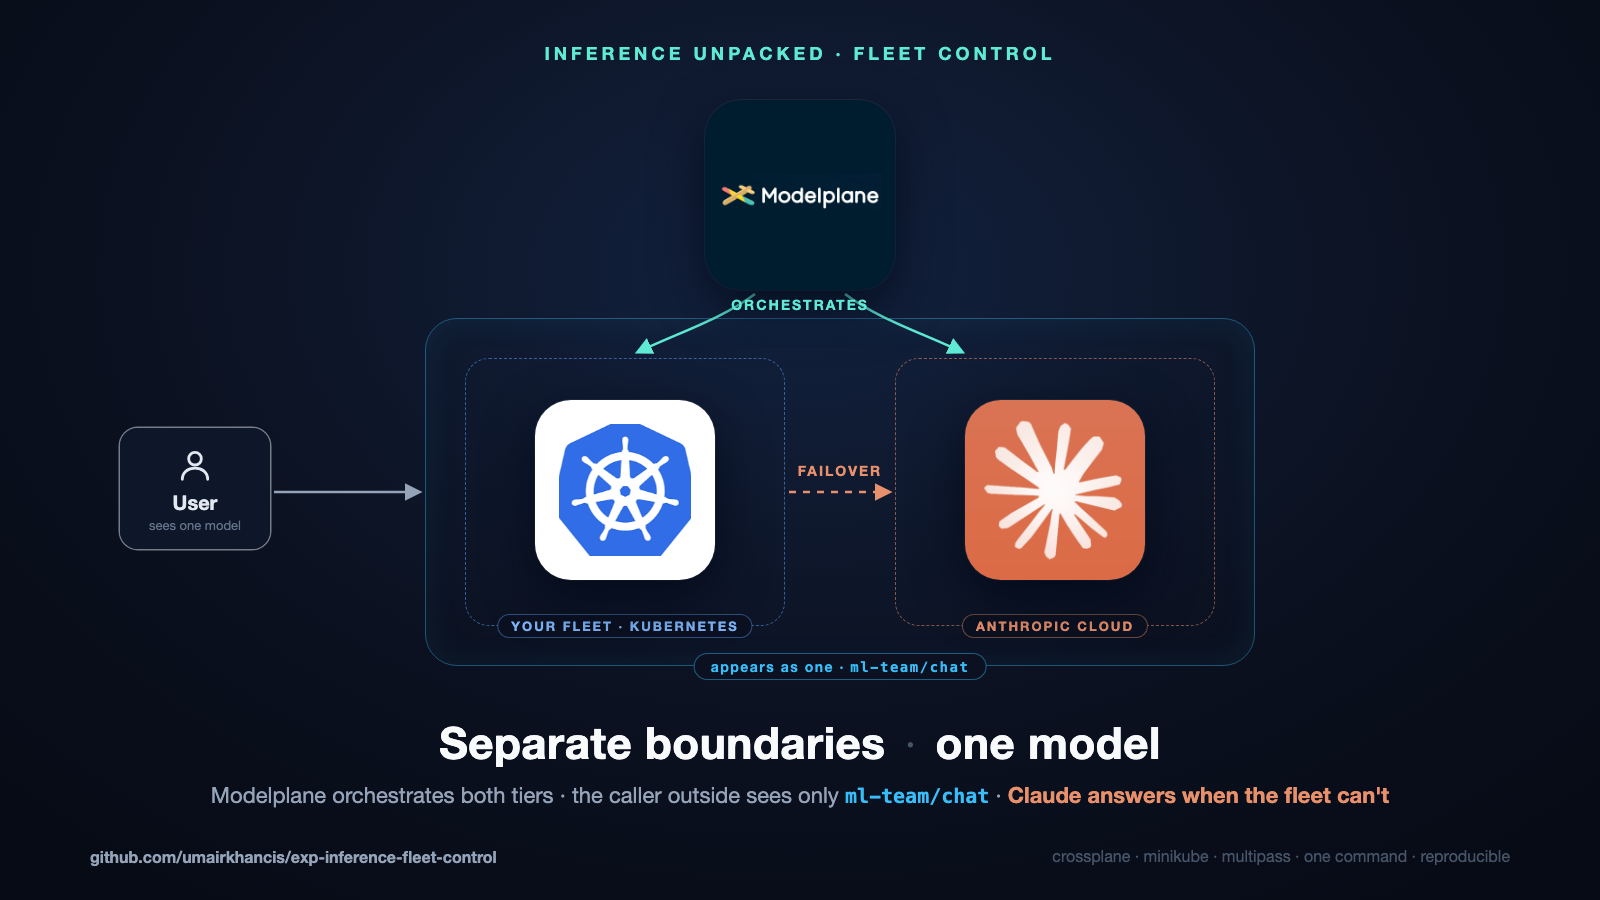
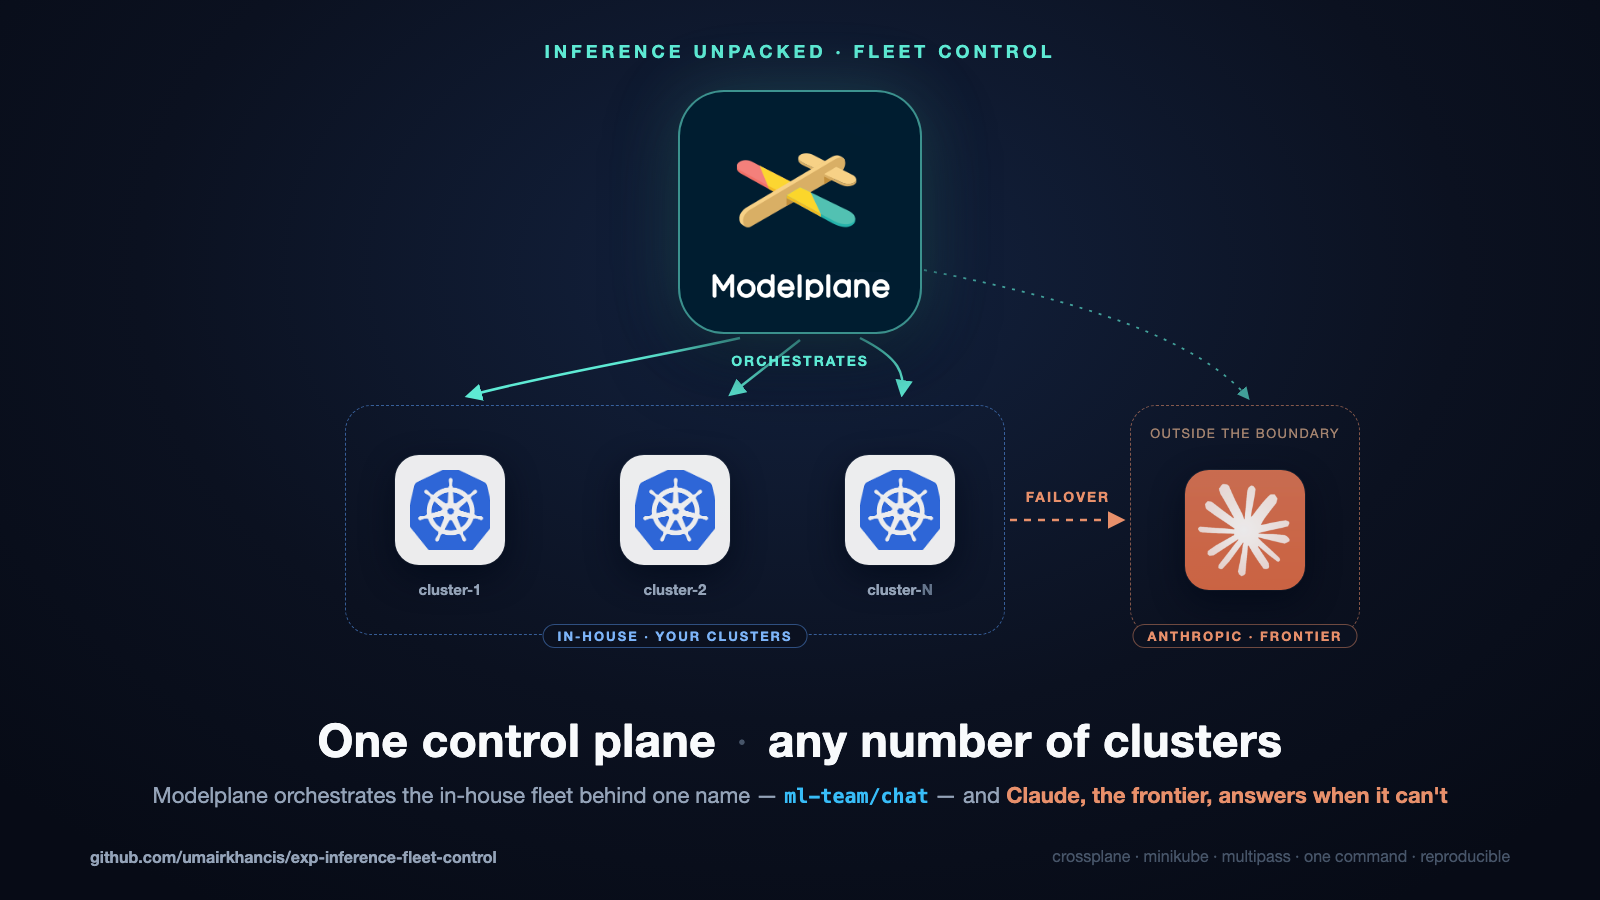
Add architecture deepdive section and refresh hero diagram

diff --git a/docs/assets/modelplane-x-k8s.html b/docs/assets/modelplane-x-k8s.html
@@ -11,85 +11,86 @@
     color: #e2e8f0; position: relative;
   }
   .kicker {
-    position: absolute; top: 42px; left: 0; right: 0; text-align: center;
+    position: absolute; top: 40px; left: 0; right: 0; text-align: center;
     font-size: 18px; font-weight: 600; letter-spacing: 4px; text-transform: uppercase;
     color: #5eead4;
   }
 
-  /* icon tiles */
-  .tile {
-    position: absolute; border-radius: 36px; overflow: hidden;
-    display: flex; align-items: center; justify-content: center;
-    box-shadow: 0 18px 50px rgba(2, 8, 23, .75), 0 0 0 1px rgba(148,163,184,.12);
+  /* ------- the hero: Modelplane, emphasized ------- */
+  .tile.mp {
+    position: absolute; left: 680px; top: 92px; width: 240px; height: 240px;
+    border-radius: 44px; background: #001d30;
+    display: flex; flex-direction: column; align-items: center; justify-content: center;
+    gap: 12px;
+    box-shadow: 0 0 0 2px rgba(94,234,212,.55), 0 0 70px rgba(94,234,212,.22),
+                0 24px 70px rgba(2,8,23,.8);
   }
-  .tile.mp { left: 705px; top: 100px; width: 190px; height: 190px; background: #001d30; }
-  .tile.mp img { width: 164px; object-fit: contain; }
-  .tile.k8s { left: 535px; top: 400px; width: 180px; height: 180px; background: #ffffff; }
-  .k8s-crop {
-    width: 132px; height: 132px; overflow: hidden;
-    display: flex; align-items: center; justify-content: center;
-  }
-  .k8s-crop img { width: 156px; height: 156px; object-fit: cover; object-position: 46% 50%; }
-  .tile.claude { left: 965px; top: 400px; width: 180px; height: 180px; }
-  .tile.claude img { width: 180px; height: 180px; object-fit: cover; }
+  /* the logo is one horizontal lockup (icon + wordmark); crop it twice */
+  .mp-icon { position: relative; width: 140px; height: 136px; overflow: hidden; }
+  .mp-icon img { position: absolute; width: 600px; left: -8px; top: -12px; }
+  .mp-word { position: relative; width: 180px; height: 28px; overflow: hidden; }
+  .mp-word img { position: absolute; width: 250px; left: -65px; top: -19px; }
 
-  /* separate boundaries + the one outline the caller sees */
-  .boundary { position: absolute; border: 1.5px dashed rgba(148,163,184,.5); border-radius: 24px; }
+  /* ------- supporting tiles, de-emphasized ------- */
+  .tile.small {
+    position: absolute; border-radius: 24px; overflow: hidden; opacity: .92;
+    display: flex; align-items: center; justify-content: center;
+    box-shadow: 0 12px 34px rgba(2,8,23,.7), 0 0 0 1px rgba(148,163,184,.12);
+  }
+  .k8s-crop { width: 80px; height: 80px; overflow: hidden; display: flex; align-items: center; justify-content: center; }
+  .k8s-crop img { width: 95px; height: 95px; object-fit: cover; object-position: 46% 50%; }
+  .tile.k8s { width: 110px; height: 110px; background: #ffffff; }
+  .k1 { left: 395px; top: 455px; }
+  .k2 { left: 620px; top: 455px; }
+  .k3 { left: 845px; top: 455px; }
+  .tile.claude { width: 120px; height: 120px; left: 1185px; top: 470px; }
+  .tile.claude img { width: 120px; height: 120px; object-fit: cover; }
+
+  .cname {
+    position: absolute; width: 110px; text-align: center;
+    font-size: 15px; font-weight: 600; color: #94a3b8;
+  }
+  .cn1 { left: 395px; top: 580px; } .cn2 { left: 620px; top: 580px; } .cn3 { left: 845px; top: 580px; }
+  .cn3 i { font-style: normal; color: #64748b; }
+
+  /* ------- boundaries ------- */
+  .boundary { position: absolute; border: 1.5px dashed rgba(148,163,184,.5); border-radius: 26px; }
   .boundary > .tag {
-    position: absolute; bottom: -13px; left: 50%; transform: translateX(-50%); padding: 3px 13px;
-    font-size: 13px; font-weight: 700; letter-spacing: 2px; text-transform: uppercase;
-    color: #94a3b8; background: #0b1120; border-radius: 999px;
-    border: 1px solid rgba(148,163,184,.35); white-space: nowrap;
+    position: absolute; bottom: -14px; left: 50%; transform: translateX(-50%);
+    padding: 3px 14px; font-size: 13px; font-weight: 700; letter-spacing: 2px;
+    text-transform: uppercase; background: #0b1120; border-radius: 999px;
+    white-space: nowrap;
   }
-  .fleet   { left: 465px; top: 358px; width: 320px; height: 268px; border-color: rgba(90,155,246,.55); }
-  .fleet > .tag { color: #7db4f8; border-color: rgba(90,155,246,.45); }
-  .anthropic { left: 895px; top: 358px; width: 320px; height: 268px; border-color: rgba(232,144,107,.55); }
-  .anthropic > .tag { color: #e8906b; border-color: rgba(232,144,107,.45); }
+  .inhouse { left: 345px; top: 405px; width: 660px; height: 230px; border-color: rgba(90,155,246,.55); }
+  .inhouse > .tag { color: #7db4f8; border: 1px solid rgba(90,155,246,.45); }
+  .frontier { left: 1130px; top: 405px; width: 230px; height: 230px; border-color: rgba(232,144,107,.55); }
+  .frontier > .tag { color: #e8906b; border: 1px solid rgba(232,144,107,.45); }
+  .frontier .sub {
+    position: absolute; top: 20px; left: 0; right: 0; text-align: center;
+    font-size: 13px; letter-spacing: 1.5px; text-transform: uppercase; color: #a3836f;
+  }
 
-  .one {
-    position: absolute; left: 425px; top: 318px; width: 830px; height: 348px;
-    border: 1.5px solid rgba(56,189,248,.4); border-radius: 32px;
-    box-shadow: 0 0 36px rgba(56,189,248,.08) inset;
-  }
-  .one > .tag {
-    position: absolute; bottom: -15px; left: 50%; transform: translateX(-50%);
-    padding: 4px 16px; font-size: 14px; font-weight: 700; letter-spacing: 1.5px;
-    color: #38bdf8; background: #0b1120; border-radius: 999px;
-    border: 1px solid rgba(56,189,248,.45); white-space: nowrap;
-  }
-  .one > .tag code { font-family: "SF Mono", Menlo, monospace; font-weight: 600; }
-
-  /* user outside the boundary */
-  .user {
-    position: absolute; left: 120px; top: 428px; width: 150px; padding: 18px 0 16px;
-    border-radius: 18px; background: rgba(15,23,42,.92); text-align: center;
-    box-shadow: 0 0 0 1.5px rgba(226,232,240,.5);
-  }
-  .user svg { display: block; margin: 0 auto 6px; }
-  .user .name { font-size: 20px; font-weight: 700; }
-  .user .role { font-size: 13px; color: #64748b; margin-top: 3px; }
-
-  /* arrow labels */
+  /* ------- arrow labels ------- */
   .alabel {
     position: absolute; font-size: 14px; font-weight: 600;
     letter-spacing: 2px; text-transform: uppercase;
   }
-  .alabel.orch { left: 0; right: 0; top: 296px; text-align: center; color: #5eead4; }
-  .alabel.fo   { left: 790px; top: 462px; width: 100px; text-align: center; color: #e8906b; }
+  .alabel.orch { left: 0; right: 0; top: 352px; text-align: center; color: #5eead4; }
+  .alabel.fo   { left: 1012px; top: 488px; width: 112px; text-align: center; color: #e8906b; }
 
   svg.wires { position: absolute; inset: 0; pointer-events: none; }
 
   h1 {
-    position: absolute; left: 0; right: 0; top: 716px; text-align: center;
-    font-size: 44px; font-weight: 800; color: #f8fafc; letter-spacing: .5px;
+    position: absolute; left: 0; right: 0; top: 712px; text-align: center;
+    font-size: 46px; font-weight: 800; color: #f8fafc; letter-spacing: .5px;
   }
   h1 .dim { color: #475569; font-weight: 300; padding: 0 6px; }
-  .sub {
+  .sub2 {
     position: absolute; left: 0; right: 0; top: 782px; text-align: center;
     font-size: 22px; color: #94a3b8;
   }
-  .sub b { color: #e8906b; font-weight: 700; }
-  .sub code { font-family: "SF Mono", Menlo, monospace; font-size: 20px; color: #38bdf8; font-weight: 600; }
+  .sub2 b { color: #e8906b; font-weight: 700; }
+  .sub2 code { font-family: "SF Mono", Menlo, monospace; font-size: 20px; color: #38bdf8; font-weight: 600; }
 
   .footer {
     position: absolute; bottom: 34px; left: 90px; right: 90px;
@@ -101,9 +102,8 @@
 <body>
   <div class="kicker">Inference Unpacked · Fleet Control</div>
 
-  <div class="one"><div class="tag">appears as one · <code>ml-team/chat</code></div></div>
-  <div class="boundary fleet"><div class="tag">Your fleet · Kubernetes</div></div>
-  <div class="boundary anthropic"><div class="tag">Anthropic cloud</div></div>
+  <div class="boundary inhouse"><div class="tag">In-house · your clusters</div></div>
+  <div class="boundary frontier"><div class="sub">outside the boundary</div><div class="tag">Anthropic · frontier</div></div>
 
   <svg class="wires" width="1600" height="900" viewBox="0 0 1600 900">
     <defs>
@@ -113,41 +113,38 @@
       <marker id="ah-coral" viewBox="0 0 10 10" refX="8" refY="5" markerWidth="7" markerHeight="7" orient="auto">
         <path d="M0,0 L10,5 L0,10 z" fill="#e8906b"/>
       </marker>
-      <marker id="ah-grey" viewBox="0 0 10 10" refX="8" refY="5" markerWidth="7" markerHeight="7" orient="auto">
-        <path d="M0,0 L10,5 L0,10 z" fill="#94a3b8"/>
-      </marker>
     </defs>
-    <!-- modelplane -> each boundary (orchestrates) -->
-    <path d="M 755 294 C 720 320, 680 332, 638 352" fill="none" stroke="#5eead4"
-          stroke-width="2.5" marker-end="url(#ah-teal)"/>
-    <path d="M 845 294 C 880 320, 920 332, 962 352" fill="none" stroke="#5eead4"
-          stroke-width="2.5" marker-end="url(#ah-teal)"/>
-    <!-- fleet -> claude (failover) -->
-    <line x1="789" y1="492" x2="889" y2="492" stroke="#e8906b" stroke-width="2.5"
+    <!-- modelplane -> each in-house cluster -->
+    <path d="M 740 338 C 650 358, 540 376, 468 396" fill="none" stroke="#5eead4" stroke-width="2.5" marker-end="url(#ah-teal)"/>
+    <path d="M 800 340 L 731 394" fill="none" stroke="#5eead4" stroke-width="2.5" marker-end="url(#ah-teal)"/>
+    <path d="M 860 338 C 900 358, 905 374, 902 394" fill="none" stroke="#5eead4" stroke-width="2.5" marker-end="url(#ah-teal)"/>
+    <!-- modelplane -> claude endpoint (it defines the failover tier too) -->
+    <path d="M 924 270 C 1080 300, 1200 340, 1248 398" fill="none" stroke="#5eead4"
+          stroke-width="1.8" stroke-dasharray="3 7" opacity=".65" marker-end="url(#ah-teal)"/>
+    <!-- fleet -> claude failover -->
+    <line x1="1010" y1="520" x2="1122" y2="520" stroke="#e8906b" stroke-width="2.5"
           stroke-dasharray="7 7" marker-end="url(#ah-coral)"/>
-    <!-- user -> the one boundary -->
-    <line x1="274" y1="492" x2="419" y2="492" stroke="#94a3b8" stroke-width="2.5"
-          marker-end="url(#ah-grey)"/>
   </svg>
 
-  <div class="tile mp"><img src="modelplane.png" alt="Modelplane"></div>
-  <div class="tile k8s"><div class="k8s-crop"><img src="k8s.png" alt="Kubernetes"></div></div>
-  <div class="tile claude"><img src="claude.png" alt="Claude"></div>
+  <div class="tile mp">
+    <div class="mp-icon"><img src="modelplane.png" alt=""></div>
+    <div class="mp-word"><img src="modelplane.png" alt="Modelplane"></div>
+  </div>
+
+  <div class="tile small k8s k1"><div class="k8s-crop"><img src="k8s.png" alt="Kubernetes"></div></div>
+  <div class="tile small k8s k2"><div class="k8s-crop"><img src="k8s.png" alt="Kubernetes"></div></div>
+  <div class="tile small k8s k3"><div class="k8s-crop"><img src="k8s.png" alt="Kubernetes"></div></div>
+  <div class="cname cn1">cluster-1</div>
+  <div class="cname cn2">cluster-2</div>
+  <div class="cname cn3">cluster-<i>N</i></div>
+
+  <div class="tile small claude"><img src="claude.png" alt="Claude"></div>
 
   <div class="alabel orch">orchestrates</div>
   <div class="alabel fo">failover</div>
 
-  <div class="user">
-    <svg width="38" height="38" viewBox="0 0 24 24" fill="none" stroke="#e2e8f0" stroke-width="1.8" stroke-linecap="round">
-      <circle cx="12" cy="8" r="4"/>
-      <path d="M4 21 c0 -4.5 3.5 -7 8 -7 s8 2.5 8 7"/>
-    </svg>
-    <div class="name">User</div>
-    <div class="role">sees one model</div>
-  </div>
-
-  <h1>Separate boundaries <span class="dim">·</span> one model</h1>
-  <div class="sub">Modelplane orchestrates both tiers · the caller outside sees only <code>ml-team/chat</code> · <b>Claude answers when the fleet can't</b></div>
+  <h1>One control plane <span class="dim">·</span> any number of clusters</h1>
+  <div class="sub2">Modelplane orchestrates the in-house fleet behind one name — <code>ml-team/chat</code> — and <b>Claude, the frontier, answers when it can't</b></div>
 
   <div class="footer">
     <div><b>github.com/umairkhancis/exp-inference-fleet-control</b></div>

diff --git a/README.md b/README.md
@@ -9,6 +9,17 @@ failover. Callers never see which tier answered.
 
 ![architecture](docs/assets/modelplane-x-k8s.png)
 
+### Architecture deepdive
+
+![architecture deepdive](docs/assets/architecture-v2.svg)
+
+Callers send `"model": "ml-team/chat"` to the Envoy AI gateway on the
+fleet cluster; it tries the fleet's vLLM replica first (P0) and retries
+the same request against Claude's API (P1) when the fleet can't answer.
+Everything on both clusters is reconciled by Crossplane from three
+declarative objects on the control cluster: `ModelDeployment`,
+`ModelService`, and `ModelEndpoint`.
+
 **Requires:** Apple Silicon Mac, 24GB RAM, ~40GB disk, [Homebrew](https://brew.sh).
 Everything else is installed for you; all compute stays inside the VMs.
 Optional: an `ANTHROPIC_API_KEY` for the Claude failover tier (stored only
